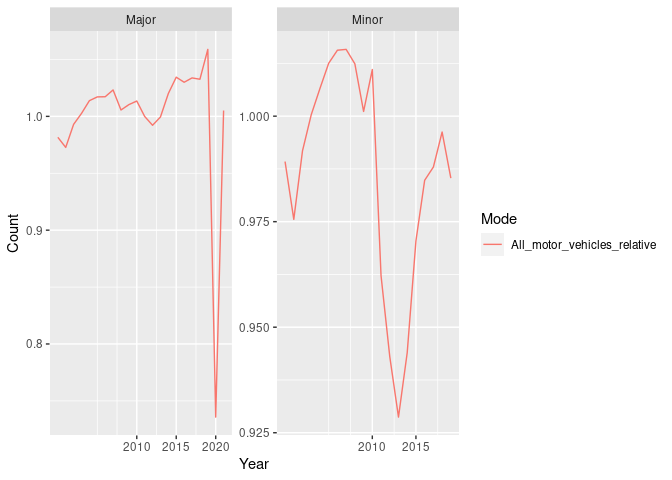
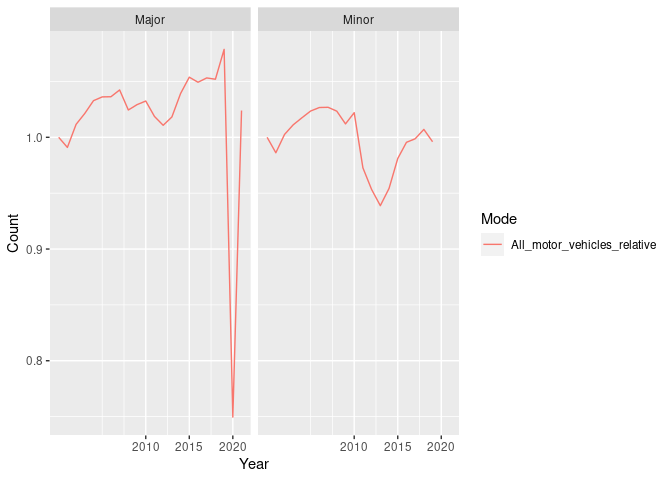
Update with facet by direction

diff --git a/README.md b/README.md
@@ -98,15 +98,15 @@ raw_traffic_mean_year |>
 
 ``` r
 raw_traffic_mean_year = raw_traffic_data |>
-  group_by(Year, Road_type) |> 
+  group_by(Year, Road_type, Direction_of_travel) |> 
   summarise(across(.cols = matches("Ped|Car|All|LGV"), mean, na.rm = TRUE)) |> 
-  pivot_longer(cols = c(-Year, -Road_type), names_to = "Mode", values_to = "Count")
-#> `summarise()` has grouped output by 'Year'. You can override using the
-#> `.groups` argument.
+  pivot_longer(cols = c(-Year, -Road_type, -Direction_of_travel), names_to = "Mode", values_to = "Count")
+#> `summarise()` has grouped output by 'Year', 'Road_type'. You can override using
+#> the `.groups` argument.
 raw_traffic_mean_year |> 
   ggplot(aes(Year, Count, colour = Mode)) +
   geom_line() +
-  facet_wrap(~Road_type, scales = "free")
+  facet_wrap(~Road_type + Direction_of_travel, scales = "free")
 ```
 
 ![](README_files/figure-gfm/unnamed-chunk-7-1.png)<!-- -->
@@ -235,7 +235,6 @@ observation in 2000:
 ``` r
 year = 2000
 traffic_data_starting_year = traffic_data_relative |> 
-  group_by(Count_point_id) |> 
   filter(min(Year) == year)
 nrow(traffic_data_starting_year) / nrow(traffic_data_relative)
 #> [1] 0.3329791
@@ -243,10 +242,12 @@ nrow(traffic_data_starting_year) / nrow(traffic_data_relative)
 traffic_data_starting_year |> 
   group_by(Year, Road_type) |> 
   summarise(across(.cols = matches("rel"), mean, na.rm = TRUE)) |> 
+  group_by(Road_type) |> 
+  mutate(All_motor_vehicles_relative = All_motor_vehicles_relative / All_motor_vehicles_relative[1]) |> 
   pivot_longer(cols = c(-Year, -Road_type), names_to = "Mode", values_to = "Count") |> 
   ggplot(aes(Year, Count, colour = Mode)) +
   geom_line() +
-  facet_wrap(~Road_type, scales = "free") +
+  facet_wrap(~Road_type) +
   scale_x_continuous(breaks = c(2010, 2015, 2020))
 #> `summarise()` has grouped output by 'Year'. You can override using the
 #> `.groups` argument.
